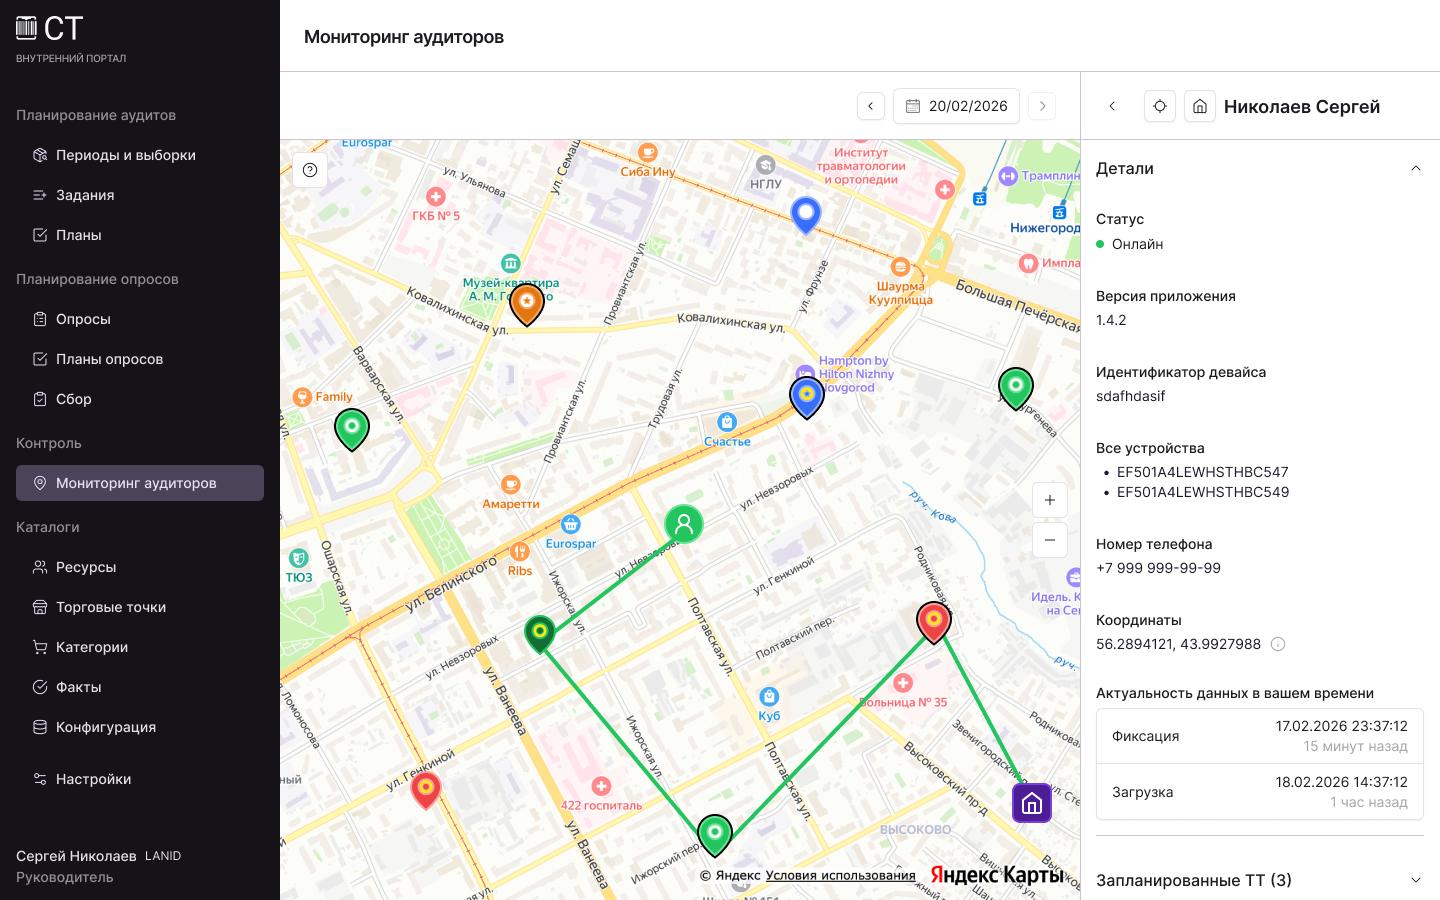
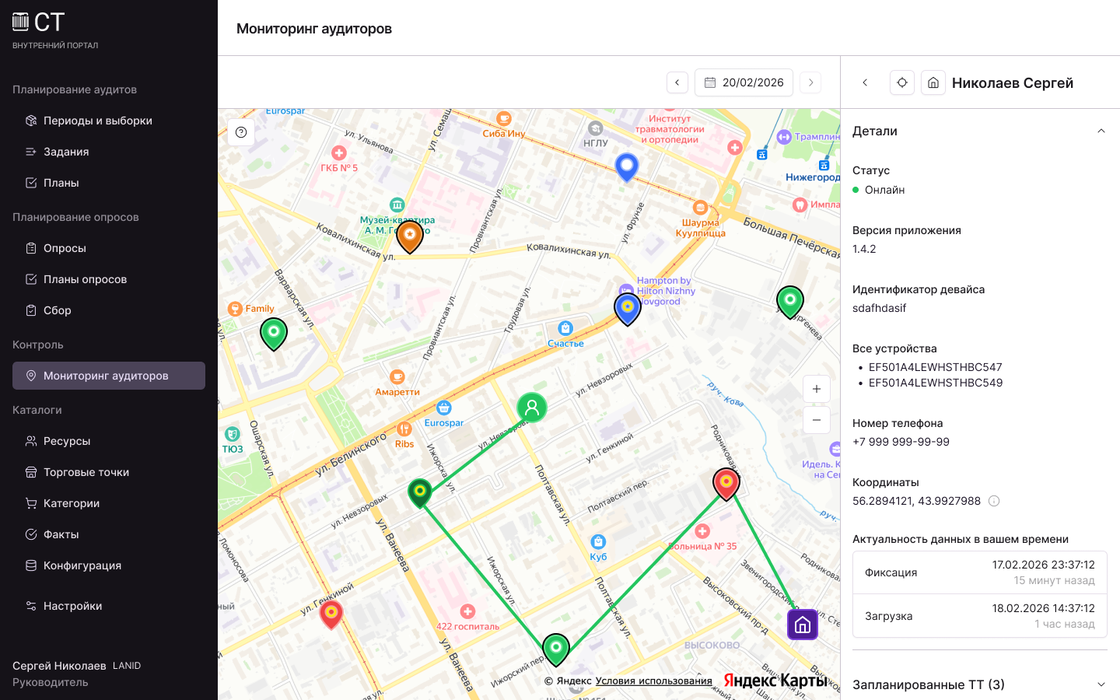
Optimize CASES/ABOUT media: WebP + resized fallbacks
Verified the image files themselves serve fine on production (all 200,
correct sizes), so the flaky "photos don't load" was decode/weight at
reveal time, not a 404 — the heavy PNGs (auditors thumb 768KB, photo of a
person stored as a 191KB PNG) weren't decoded by the time the preloader
uncovered the content.

CASES thumbnails and the ABOUT photo now use <picture>: a WebP source for
modern browsers with the original raster as fallback, so older browsers
still get a working image. Thumbnails downscaled to 1120px (560px slot @2x)
and photo served as WebP/JPEG instead of PNG.

Result: CASES thumbnails 1284KB -> 173KB WebP (-87%), ABOUT photo
191KB -> 13KB WebP. Fallback PNGs also shrank (except installation, whose
already-small source re-encoded slightly larger — irrelevant since WebP is
served to essentially all traffic). img kept eager + decoding=async; the
horizontal track scrolls via transform, not native scroll, so native lazy
loading wouldn't fire reliably here. photo.png is now unreferenced (left in
place, can be deleted). Case-study pages untouched.

Changed region(s): [[0.7812, 0.6, 0.8125, 0.63], [0.25, 0.03, 0.2812, 0.06]]

diff --git a/cases.html b/cases.html
@@ -131,6 +131,7 @@
       overflow: hidden;
     }
 
+    .case-img picture { display: block; width: 100%; height: 100%; }
     .case-img img {
       width: 100%;
       height: 100%;
@@ -237,21 +238,30 @@
         <a href="rutube.html" class="case-item">
           <span class="case-num">[1]</span>
           <div class="case-img">
-            <img src="projects/rutube.png" alt="Rutube — Редизайн подписки">
+            <picture>
+              <source srcset="projects/rutube.webp" type="image/webp">
+              <img src="projects/rutube.png" alt="Rutube — Редизайн подписки" loading="eager" decoding="async">
+            </picture>
           </div>
         </a>
 
         <a href="auditors_monitoring.html" class="case-item">
           <span class="case-num">[2]</span>
           <div class="case-img">
-            <img src="projects/auditors_monitoring.png" alt="Мониторинг аудиторов">
+            <picture>
+              <source srcset="projects/auditors_monitoring.webp" type="image/webp">
+              <img src="projects/auditors_monitoring.png" alt="Мониторинг аудиторов" loading="eager" decoding="async">
+            </picture>
           </div>
         </a>
 
         <a href="installation_panel.html" class="case-item">
           <span class="case-num">[3]</span>
           <div class="case-img">
-            <img src="projects/installation_panel.png" alt="Панель инсталляций">
+            <picture>
+              <source srcset="projects/installation_panel.webp" type="image/webp">
+              <img src="projects/installation_panel.png" alt="Панель инсталляций" loading="eager" decoding="async">
+            </picture>
           </div>
         </a>
 

diff --git a/about.html b/about.html
@@ -271,7 +271,10 @@
     </div>
 
     <div class="bio">
-      <img class="bio-photo" src="photo.png" alt="Andrey Beregovoy">
+      <picture>
+        <source srcset="photo.webp" type="image/webp">
+        <img class="bio-photo" src="photo.jpg" alt="Andrey Beregovoy" decoding="async">
+      </picture>
       <p class="bio-col">В дизайне с 2023 года. Начинал с веб-дизайна и фронтенда ещё в школе — это объясняет, почему мне одинаково интересно думать головой и руками.</p>
       <p class="bio-col">Сейчас работаю в GIS IT-компании. За три года — проекты для правительства Лондона, Абу-Даби и Москвы, дизайн-системы с нуля, UI-киты под сложные продукты.</p>
     </div>
